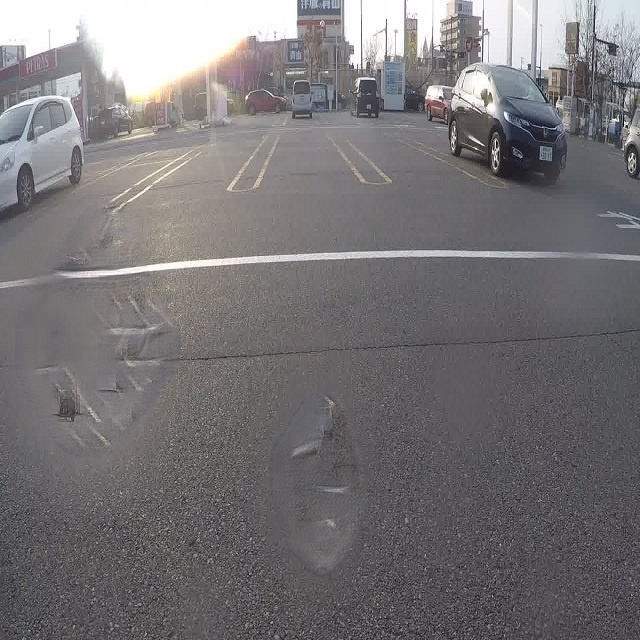
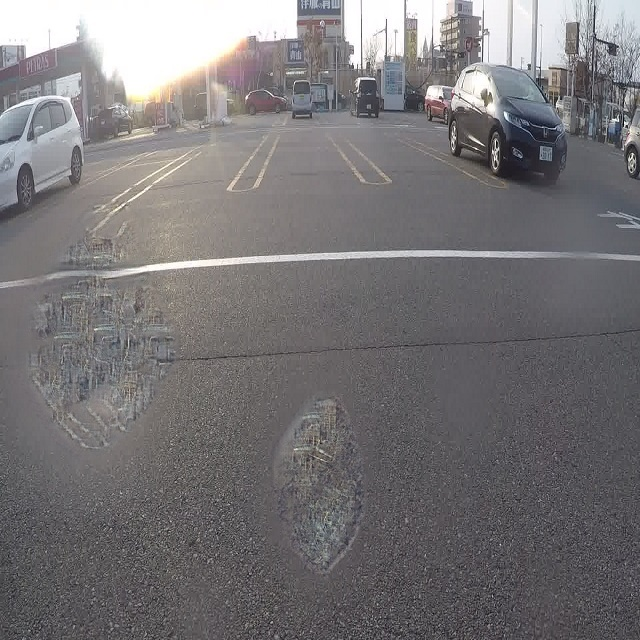
edit data

Changed region(s): [[0.0625, 0.3125, 0.2812, 0.6875], [0.4375, 0.625, 0.5625, 0.9062]]

diff --git a/try_02.py b/try_02.py
@@ -9,6 +9,7 @@ from inpaint_model import InpaintCAModel
 
 # go through all files in the folder
 import os
+import datetime
 
 
 parser = argparse.ArgumentParser()
@@ -29,7 +30,7 @@ parser.add_argument('--output_dir', default='', type=str,
                     help='The directory of output images.')    
 
 ## add more options                    
-parser.add_argument('--test_dir', default='test_dir', type=str,
+parser.add_argument('--test_dir', default='test_dir/GOPR47', type=str,
                     help='The directory of test images and masks.')   
 
 
@@ -57,7 +58,7 @@ if __name__ == "__main__":
     # prepare folder path
     input_folder = args.test_dir + "/input"
     mask_folder = args.test_dir + "/mask"
-    output_folder = args.test_dir + "/output"
+    output_folder = args.test_dir + "/output_" + args.checkpoint_dir.split("/")[1] + "_" +datetime.datetime.now().strftime("%Y%m%d%H%M%S")
 
     if not os.path.exists(output_folder):
         os.makedirs(output_folder)
@@ -82,7 +83,7 @@ if __name__ == "__main__":
         assert image.shape == mask.shape
 
         h, w, _ = image.shape
-        grid = 8
+        grid = 1
         image = image[:h//grid*grid, :w//grid*grid, :]
         mask = mask[:h//grid*grid, :w//grid*grid, :]
         print('Shape of image: {}'.format(image.shape))
